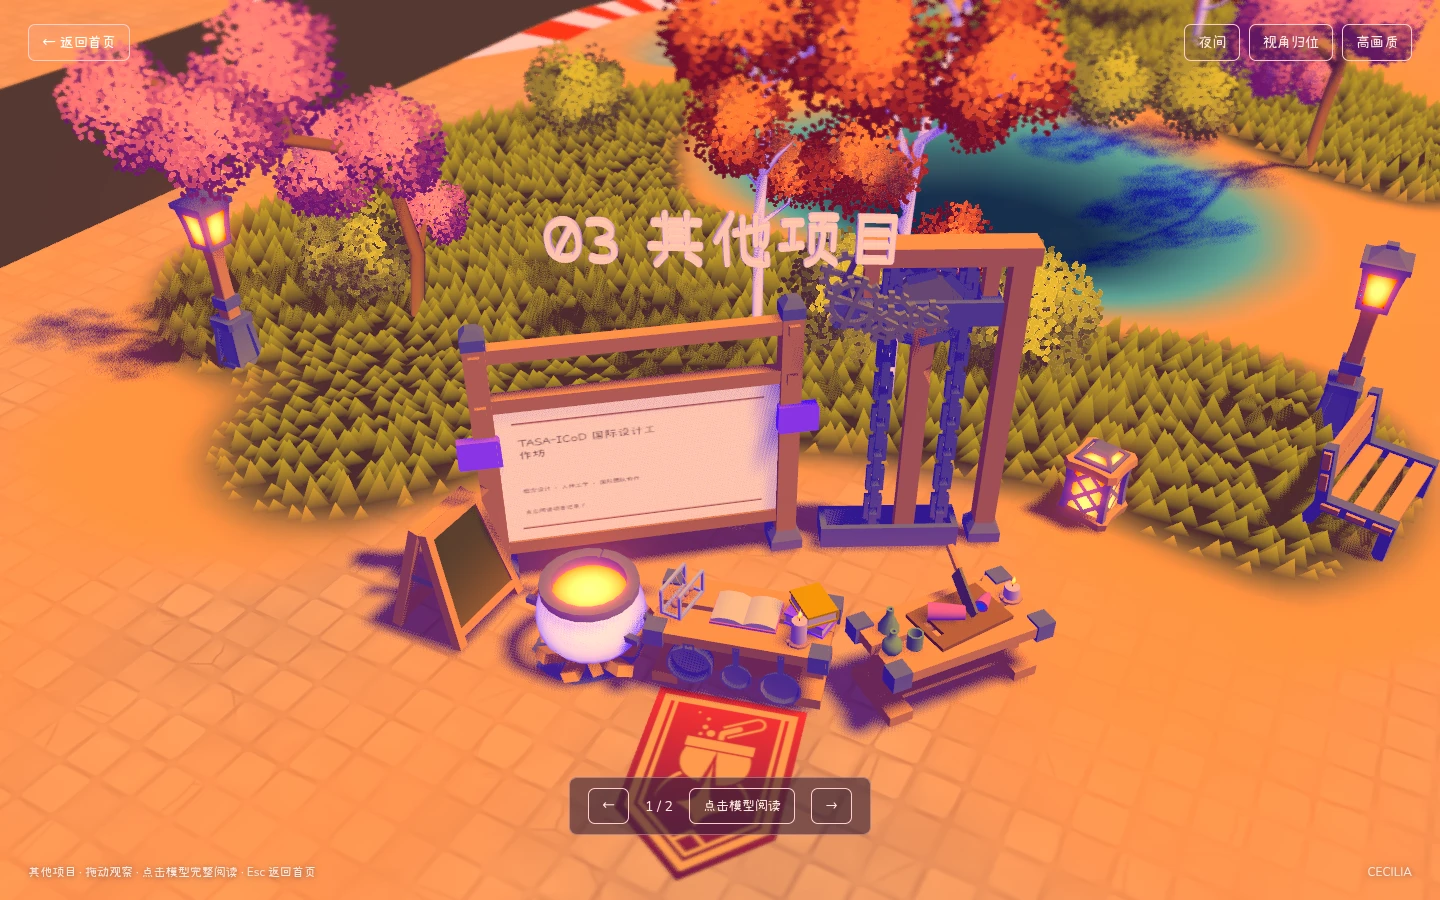
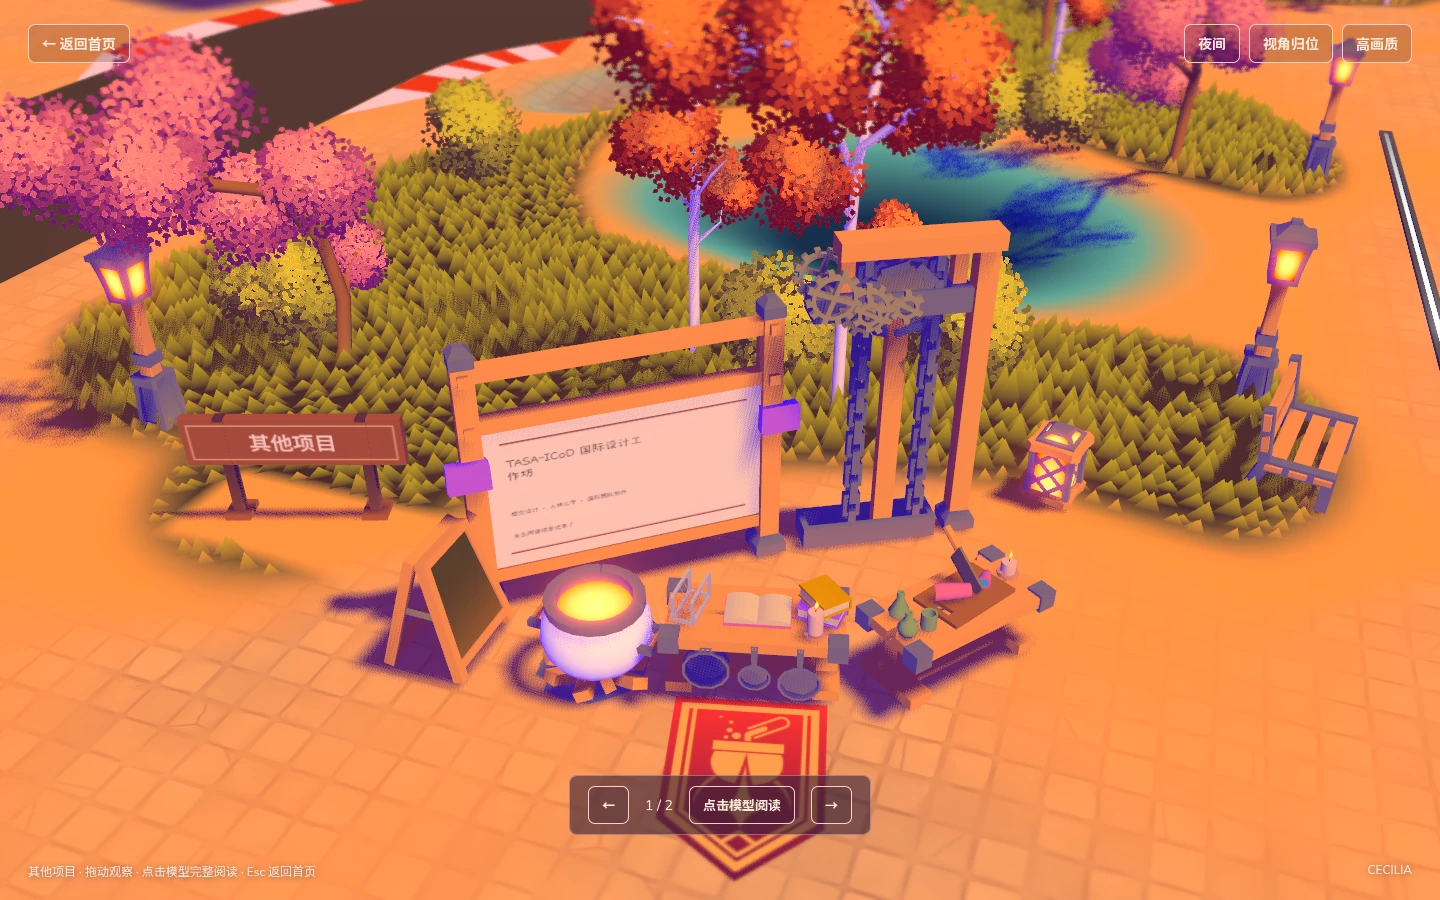
Verify entrance map, grounded reading and contact corners, preserve original content fonts

diff --git a/experiments/bruno-projects/src/scene-fixtures.js b/experiments/bruno-projects/src/scene-fixtures.js
@@ -203,7 +203,7 @@ export function createFixtures(world) {
   function contactCorner(original) {
     const root = new T.Group();
     root.name = "roadside-post-corner";
-    // Upright post box, an envelope tray and the original phone prop. The road
+    // Upright post box, an envelope tray and a small phone. The road
     // remains empty: the entire fixture is registered to a dry grass parcel.
     box(root, [0.2, 1.2, 0.2], [-0.65, 0.6, 0], "edge");
     box(root, [0.75, 0.12, 0.7], [-0.65, 0.06, 0], "wood");
@@ -279,7 +279,7 @@ export function createFixtures(world) {
     root.name = "clickable-entrance-map";
     for (const child of [...root.children])
       if (!/^physicalFixed00[39]$/.test(child.name)) child.removeFromParent();
-    parcel(root, 45, 48, 1.1);
+    parcel(root, 45, 48, 1.2);
     const face = root.getObjectByName("physicalFixed003");
     if (!face) throw new Error("入口地图牌面缺失");
     // The native kiosk uses a small square paper insert. Widen that insert

diff --git a/WEBSITE_WORLD_PROGRESS.md b/WEBSITE_WORLD_PROGRESS.md
@@ -8,10 +8,15 @@
 - 分类悬空立体字全部取消，改为有立柱支撑的木牌。本轮外层先用简洁无衬线（用户异步确认），不使用麦圆体或新的手写字；具体字体以后再选。
 - 简历正文恢复改版前的系统字体栈、原字重及字号；其他项目记录恢复系统字体；三件作品内部字体／文字／排版不改。
 - 物理摆放通过同源地形纹理的 B（水深）、R（铺装道路）数据检查整个占地范围，修正阅读桌浮在水上、邮箱占路的问题。底部实际落地，不仅改镜头。
-- 简历阅读角增加书架、书本、笔筒；联络角改为直立邮筒、信封托盘、原电话道具。其他项目／作品集的道具扩展在本轮验收后继续，先保留现有主体。
-- 正在制作和核验，尚未上线；以实际渲染与交互测试为准。
+- 简历阅读角增加书架、书本、笔筒；联络角改为直立邮筒、信封托盘、小型手机。其他项目／作品集的道具扩展在本轮验收后继续，先保留现有主体。
+- 最终地图比例为 1.2；放大过度会占据姓名可用干地，因此未采用无法落地的 1.5 比例。姓名与地图均保持完整入镜。
+- 最终 `design-world.cjs` 已通过：四入口地图实际点击（包含作品集跳转）、站点模型点击、简历原字体及 PDF、联系方式、日夜、390px 手机触屏与双指手势，无页面错误／404。
+- `portfolio-routing.cjs`、`bruno-animation.cjs` 和 `bruno-preview.cjs` 已通过，含原作品集全部入口、铁砧动画和失败回退。三件作品内部源码与 resume.js 对比上轮基线无差异。
+- 真实截图保存在 public/review/；待此次提交的 GitHub Pages 发布任务成功后上线。已保存实施检查点 bec9163。
 
-## 范围
+## 上一轮实施记录（以下保留历史，当前要求以上方修订为准）
+
+### 范围
 
 - 首页、简历入口与阅读样式、其他项目、联系方式延续官方 Bruno 模型、原色板、光影与后期；不用旧几何小岛，不新增汽车与驾驶系统。
 - 姓名仍为「王钰欣 / YUXIN WANG」，包括 Cecilia；首页分类顺序简历、作品集、其他项目、联系方式。无重复顶部分类栏。

diff --git a/experiments/bruno-projects/public/review/README.md b/experiments/bruno-projects/public/review/README.md
@@ -1,6 +1,6 @@
 # 真实浏览器渲染截图
 
-由 `tests/bruno-preview.cjs` 在实际运行此试做页后截取并转存为 WebP。
+由 `tests/bruno-preview.cjs` 与 `tests/design-world.cjs` 在实际运行网页后截取并转存为 WebP。
 
 - `day.webp`：原版 day 光照预设下的桌面近景。
 - `night.webp`：原版 night 光照预设下的桌面近景。
@@ -8,5 +8,7 @@
 - `home.webp` / `home-night.webp` / `home-mobile.webp`：统一场景的日间、夜间与手机首页。
 - `resume-station.webp` / `resume-reading.webp`：三维简历阅读桌与实际简历正文。
 - `other-station.webp` / `contact-station.webp`：实验室项目入口与联系方式。
+
+本轮 `home*`、`resume*`、`contact-station` 展示入口近景、实体入口地图、简洁无衬线标牌与落地道具；简历正文恢复原系统字体。
 
 未使用图片生成器。这些文件用于对照美术方向，不替代可操作的 3D 页面。来源及许可见上级 `BRUNO-LICENSE.txt`、`THIRD-PARTY-NOTICES.txt`。
